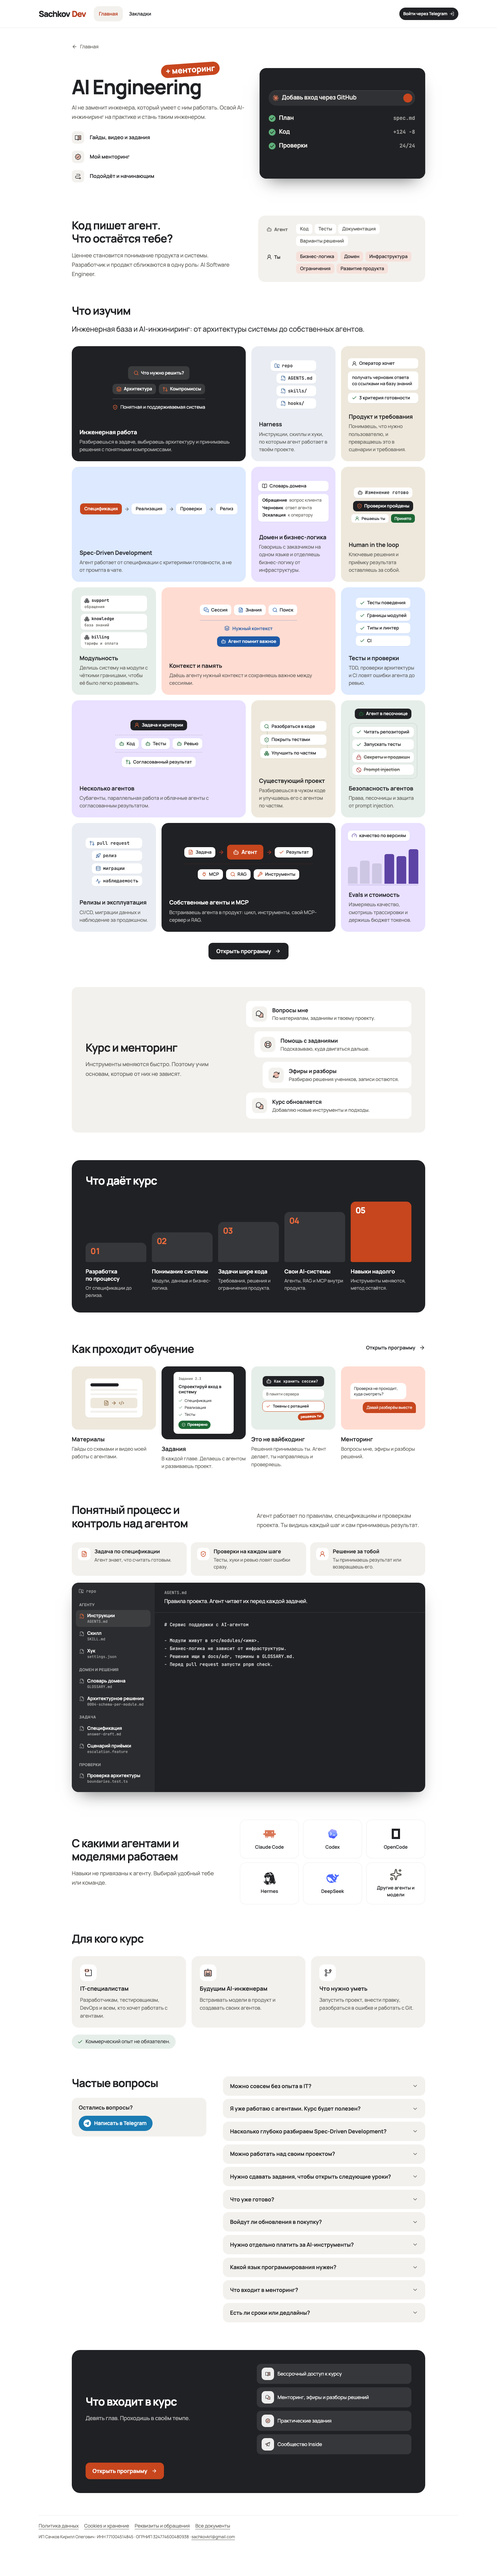
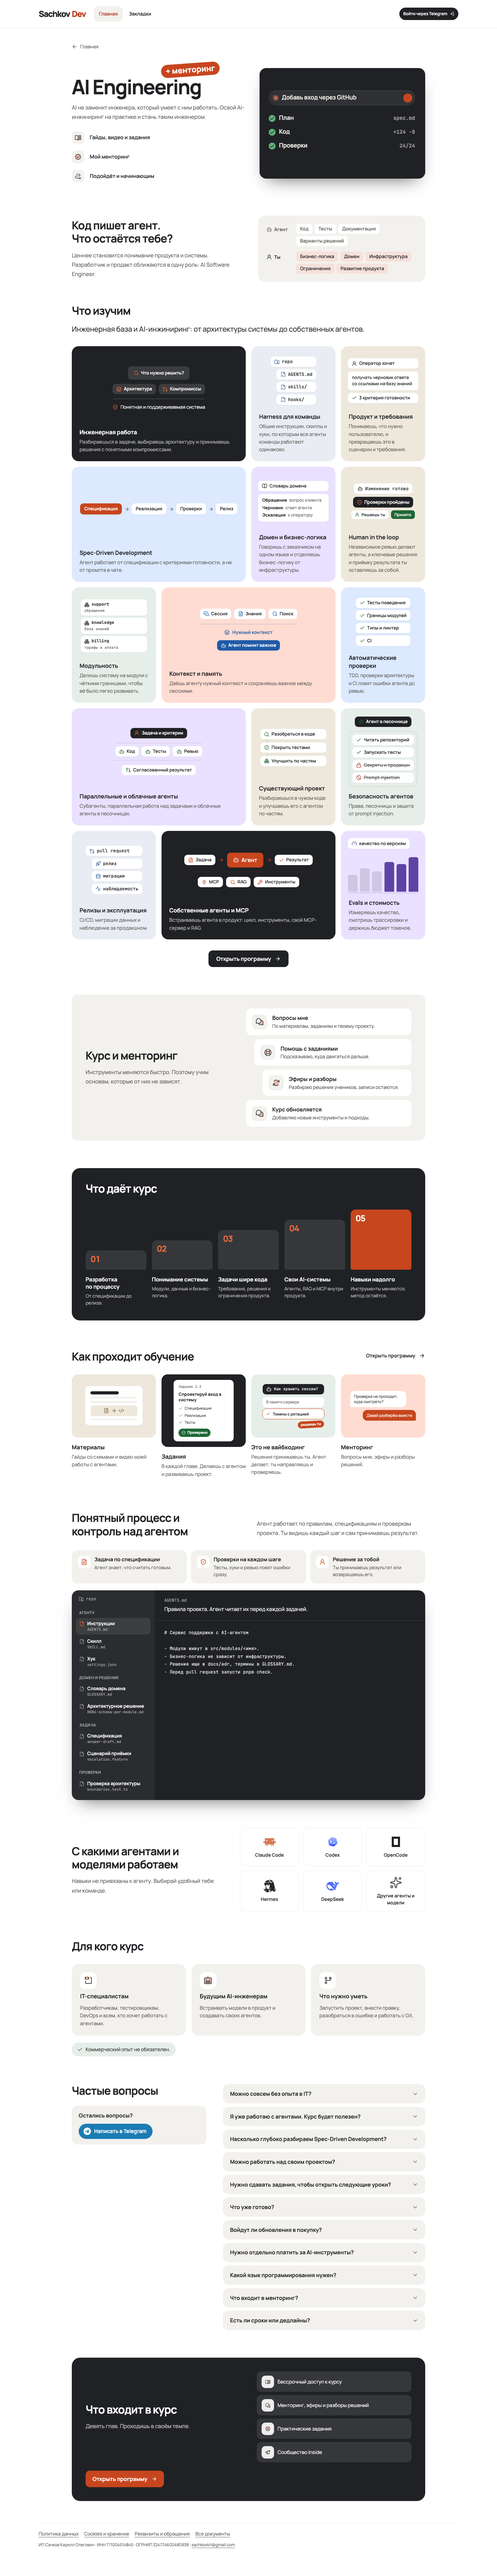
Лендинг AI Engineering: продвинутые темы названы конкретно, ответ опытным разработчикам (#1909)
- «Harness для команды», «Автоматические проверки», «Параллельные и облачные
  агенты»; в «Human in the loop» добавлено независимое ревью агентами;
- ответ «Я уже работаю с агентами» называет продвинутые главы;
- снимки для визуального принятия обновлены.

diff --git a/apps/web/src/storybook/ai-engineering-course.fixtures.ts b/apps/web/src/storybook/ai-engineering-course.fixtures.ts
@@ -59,8 +59,8 @@ export const aiEngineeringCoursePage: ProductPage = {
           "Разбираешься в задаче, выбираешь архитектуру и принимаешь решения с понятными компромиссами.",
         ),
         card(
-          "Harness",
-          "Инструкции, скиллы и хуки, по которым агент работает в твоём проекте.",
+          "Harness для команды",
+          "Общие инструкции, скиллы и хуки, по которым все агенты команды работают одинаково.",
         ),
         card(
           "Продукт и требования",
@@ -76,7 +76,7 @@ export const aiEngineeringCoursePage: ProductPage = {
         ),
         card(
           "Human in the loop",
-          "Ключевые решения и приёмку результата оставляешь за собой.",
+          "Независимое ревью делают агенты, а ключевые решения и приёмку результата ты оставляешь за собой.",
         ),
         card(
           "Модульность",
@@ -87,12 +87,12 @@ export const aiEngineeringCoursePage: ProductPage = {
           "Даёшь агенту нужный контекст и сохраняешь важное между сессиями.",
         ),
         card(
-          "Тесты и проверки",
+          "Автоматические проверки",
           "TDD, проверки архитектуры и CI ловят ошибки агента до ревью.",
         ),
         card(
-          "Несколько агентов",
-          "Субагенты, параллельная работа и облачные агенты с согласованным результатом.",
+          "Параллельные и облачные агенты",
+          "Субагенты, параллельная работа над задачами и облачные агенты в песочницах.",
         ),
         card(
           "Существующий проект",
@@ -239,7 +239,7 @@ export const aiEngineeringCoursePage: ProductPage = {
         ),
         card(
           "Я уже работаю с агентами. Курс будет полезен?",
-          "Сверь программу со своими задачами. Знакомые названия тем ещё не говорят о глубине. На курсе мы проходим весь путь на одном проекте: от требований до релиза.",
+          "Да, если хочешь выстроить процесс, а не только пользоваться агентом. Первую главу с выбором агента и настройкой проекта опытный разработчик пройдёт быстро. Дальше идёт продвинутая часть: разработка от спецификации, параллельная работа и субагенты, TDD и независимое ревью агентами, проверки в CI, общий harness для команды и облачные агенты. Пять глав из девяти посвящены AI-assisted разработке, четыре созданию агентов внутри продукта.",
         ),
         card(
           "Насколько глубоко разбираем Spec-Driven Development?",

diff --git a/apps/web/src/_pages/library-discovery/model/course-topic-tiles.ts b/apps/web/src/_pages/library-discovery/model/course-topic-tiles.ts
@@ -45,15 +45,15 @@ const tile = (
 const tiles: Readonly<Record<string, CourseTopicTile>> = {
   // Темы лендинга с 31.10.2026: инженерные и AI-темы чередуются, ряды по четыре колонки.
   "Инженерная работа": tile("engineering", "wide", "ink"),
-  Harness: tile("harness", "narrow", "example"),
+  "Harness для команды": tile("harness", "narrow", "example"),
   "Продукт и требования": tile("story", "narrow", "sand"),
   "Spec-Driven Development": tile("sdd", "wide", "blue"),
   "Домен и бизнес-логика": tile("domain", "narrow", "lavender"),
   "Human in the loop": tile("human", "narrow", "sand"),
   Модульность: tile("modules", "narrow", "good"),
   "Контекст и память": tile("memory", "wide", "coral"),
-  "Тесты и проверки": tile("checks", "narrow", "blue"),
-  "Несколько агентов": tile("team", "wide", "lavender"),
+  "Автоматические проверки": tile("checks", "narrow", "blue"),
+  "Параллельные и облачные агенты": tile("team", "wide", "lavender"),
   "Существующий проект": tile("legacy", "narrow", "sand"),
   "Безопасность агентов": tile("security", "narrow", "good"),
   "Релизы и эксплуатация": tile("release", "narrow", "example"),
@@ -62,6 +62,7 @@ const tiles: Readonly<Record<string, CourseTopicTile>> = {
   // Темы описания, опубликованного до нового лендинга: страница не теряет картинки, пока текст
   // в Inside Content не обновлён.
   "AI-first разработка": tile("engineering", "wide", "ink"),
+  Harness: tile("harness", "narrow", "example"),
   "Работа с контекстом": tile("context", "narrow", "blue"),
   "Пайплайны разработки": tile("pipeline", "narrow", "good"),
   "Собственные агенты": tile("agent", "wide", "coral"),

diff --git a/docs/evidence/issue-1909/README.md b/docs/evidence/issue-1909/README.md
@@ -1,7 +1,7 @@
 # Issue #1909: AI Engineering landing, production visual evidence
 
 Storybook story `Pages/Product/Landing/AI Engineering`, production module
-`ai-engineering-course-view.tsx` at commit `3220cfd98`. Captured on 2026-10-31 with
+`ai-engineering-course-view.tsx` with the advanced topic names and the stronger FAQ answer from this commit. Captured on 2026-10-31 with
 `screenshotWholePage`, reduced motion, no horizontal overflow at any width.
 
 | File | Story | Width |
